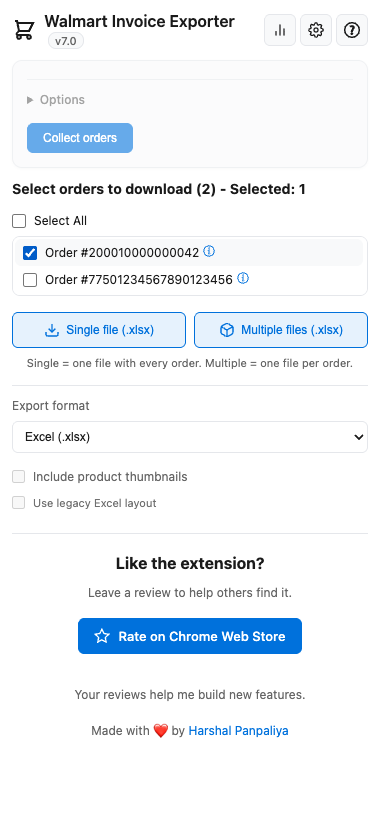
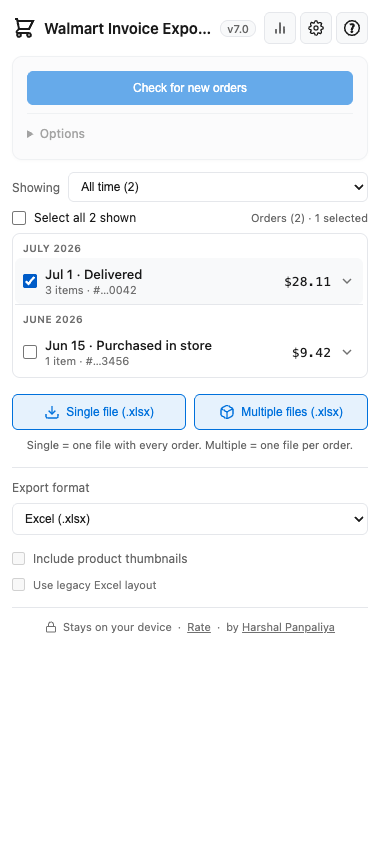
fix: v7.1 visual-review round
- Collect-button label now follows the macro state on every path (panel
  init from the DB showed 'Load my orders' with orders present)
- Version badge sits outside the title's ellipsis so it can't be the
  first thing truncated away; empty badge hides
- Expanded row scrolls into view (its action buttons opened below the
  list box's fold); list box max-height 300->400
- Removed the duplicate collect caption (hero subtext covers it)
- Screenshot driver covers all v7.1 states at 4 widths + an overflow
  probe; README screenshot regenerated from the new list view

diff --git a/tests/e2e/helpers/shots.js b/tests/e2e/helpers/shots.js
@@ -1,7 +1,7 @@
 /**
  * UI screenshot driver (dev tool, not a test): boots the packed extension in
- * the e2e harness, walks the panel through its main states, and saves PNGs
- * at side-panel width. Usage: node tests/e2e/helpers/shots.js <outDir>
+ * the e2e harness, walks the panel through its states, and saves PNGs.
+ * Usage: node tests/e2e/helpers/shots.js <outDir>
  */
 'use strict';
 
@@ -9,8 +9,7 @@ const path = require('node:path');
 const { launch, collectOrders, renderOrderList } = require('./harness');
 
 const OUT = process.argv[2] || '.';
-const WIDTH = 380;
-const HEIGHT = 820;
+const HEIGHT = 860;
 
 async function shot(panel, name) {
   // The harness never sits on a real Walmart tab, so the off-tab banner is
@@ -18,62 +17,82 @@ async function shot(panel, name) {
   await panel.evaluate(() => {
     const banner = document.getElementById('offTabWarning');
     if (banner) banner.remove();
+    const cacheInfo = document.getElementById('cacheInfo');
+    if (cacheInfo) cacheInfo.remove();
   });
-  await panel.waitForTimeout(250);
+  await panel.waitForTimeout(200);
   await panel.screenshot({ path: path.join(OUT, `${name}.png`) });
   console.log(`saved ${name}.png`);
+}
+
+async function setTheme(panel, theme) {
+  await panel.evaluate((t) => {
+    if (t) document.documentElement.setAttribute('data-theme', t);
+    else document.documentElement.removeAttribute('data-theme');
+  }, theme);
 }
 
 (async () => {
   const { panel, close } = await launch();
   try {
-    await panel.setViewportSize({ width: WIDTH, height: HEIGHT });
+    await panel.setViewportSize({ width: 380, height: HEIGHT });
 
-    // Main view, empty state (before any collection)
-    await shot(panel, '01-main-empty-light');
+    // First-run hero (empty DB => first-run macro state)
+    await shot(panel, '01-first-run-light');
+    await setTheme(panel, 'dark');
+    await shot(panel, '02-first-run-dark');
+    await setTheme(panel, null);
 
-    // Collect via the real worker, render the list, select one order
+    // Collect via the real worker, render the receipt list
     const progress = await collectOrders(panel);
     await renderOrderList(panel, progress);
     const firstBox = panel.locator('.order-list input[type="checkbox"]').first();
     await firstBox.check();
-    await shot(panel, '02-main-orders-light');
+    await shot(panel, '03-list-light');
+    await setTheme(panel, 'dark');
+    await shot(panel, '04-list-dark');
 
-    // Dark mode (manual override, same as the Settings toggle)
-    await panel.evaluate(() => {
-      document.documentElement.setAttribute('data-theme', 'dark');
-    });
-    await shot(panel, '03-main-orders-dark');
-    await panel.evaluate(() => {
-      document.documentElement.removeAttribute('data-theme');
-    });
+    // Expand the first row (click the row body, not the checkbox)
+    await panel.locator('.order-list .order-row').first().click();
+    await shot(panel, '05-row-expanded-dark');
+    await setTheme(panel, null);
 
-    // Settings view (light + dark)
-    await panel.evaluate(() => {
-      window.Sidepanel.view.switchView('settings');
-      window.Sidepanel.settings.renderSettings();
+    // Range filter engaged (This year)
+    const hasFilter = await panel.evaluate(() => {
+      const select = document.getElementById('listRangeFilter');
+      if (!select) return false;
+      const option = Array.from(select.options).find((o) => o.value === 'thisYear');
+      if (!option) return false;
+      select.value = 'thisYear';
+      select.dispatchEvent(new Event('change', { bubbles: true }));
+      return true;
     });
-    await shot(panel, '04-settings-light');
-    await panel.evaluate(() => {
-      document.documentElement.setAttribute('data-theme', 'dark');
-    });
-    await shot(panel, '05-settings-dark');
-    await panel.evaluate(() => {
-      document.documentElement.removeAttribute('data-theme');
-    });
+    if (hasFilter) {
+      await panel.waitForTimeout(300);
+      await shot(panel, '06-filter-thisyear-light');
+      await panel.evaluate(() => {
+        const select = document.getElementById('listRangeFilter');
+        select.value = 'all';
+        select.dispatchEvent(new Event('change', { bubbles: true }));
+      });
+    } else {
+      console.warn('listRangeFilter not found — skipping filter shot');
+    }
 
-    // Delete-all confirmation dialog
-    await panel.click('#deleteAllDataButton');
-    await shot(panel, '06-delete-dialog-light');
+    // Width sweep on the loaded list
+    await panel.setViewportSize({ width: 300, height: HEIGHT });
+    await shot(panel, '07-list-narrow-300');
+    await panel.setViewportSize({ width: 460, height: HEIGHT });
+    await shot(panel, '08-list-wide-460');
+    await panel.setViewportSize({ width: 380, height: HEIGHT });
 
-    // Dashboard
-    await panel.evaluate(() => {
-      const dialog = document.querySelector('.dialog-overlay .dialog-cancel');
-      if (dialog) dialog.click();
-      window.Sidepanel.view.switchView('dashboard');
-      window.Sidepanel.dashboard.renderDashboard();
-    });
-    await shot(panel, '07-dashboard-light');
+    // Horizontal-overflow check at the extreme narrow width
+    await panel.setViewportSize({ width: 280, height: HEIGHT });
+    const overflow = await panel.evaluate(
+      () => document.documentElement.scrollWidth - document.documentElement.clientWidth
+    );
+    console.log(`overflow @280px: ${overflow}px ${overflow > 0 ? '*** HORIZONTAL SCROLL ***' : '(none, good)'}`);
+    await shot(panel, '09-list-narrow-280');
   } finally {
     await close();
   }

diff --git a/sidepanel.css b/sidepanel.css
@@ -276,15 +276,27 @@ body {
 }
 
 .header h1 {
-  font-size: var(--font-size-lg);
+  font-size: 15px;
   font-weight: 600;
   color: var(--text);
   flex: 1;
   min-width: 0;
-  /* Title ellipsizes rather than wrapping/overflowing (spec v7.1 §F). */
+  display: flex;
+  align-items: center;
+  gap: var(--space-1);
+  white-space: nowrap;
+}
+
+/* Only the title TEXT ellipsizes (spec v7.1 §F) — the version badge sits
+   outside the truncation so it never silently disappears first. */
+.header-title-text {
+  min-width: 0;
   overflow: hidden;
   text-overflow: ellipsis;
-  white-space: nowrap;
+}
+
+.version-badge:empty {
+  display: none;
 }
 
 .card {
@@ -615,7 +627,7 @@ body {
 
 /* Order list - scrollable area for orders */
 .order-list {
-  max-height: 300px;
+  max-height: 400px;
   overflow-y: auto;
   margin-bottom: var(--space-1);
   padding: 2px 4px 2px 2px;

diff --git a/sidepanel.view.js b/sidepanel.view.js
@@ -223,6 +223,12 @@
     const has = Boolean(hasOrders);
     document.body.classList.toggle("first-run", !has);
     if (state.app) state.app.hasOrders = has;
+    // Keep the collect button's label in sync with the macro state — the
+    // label logic lives in setCollectionButtonsState, but not every path
+    // that flips hasOrders goes through it (e.g. panel init from the DB).
+    if (!state.app || !state.app.collectionInProgress) {
+      setCollectionButtonsState({ running: false });
+    }
   }
 
   function setUIEnabled(enabled) {
@@ -607,6 +613,9 @@
       rowEl.classList.add("expanded");
       listState.openRowEl = rowEl;
       listState.openDetailEl = detail;
+      // The list box is its own scroll area — an expansion near its fold
+      // opens mostly out of view (the action buttons were the casualty).
+      detail.scrollIntoView({ block: "nearest", behavior: "auto" });
     }
   }
 

diff --git a/sidepanel.html b/sidepanel.html
@@ -26,7 +26,7 @@
                 <path
                     d="M3 3h2l.4 2M7 13h10l4-8H5.4M7 13L5.4 5M7 13l-2.293 2.293c-.63.63-.184 1.707.707 1.707H17m0 0a2 2 0 100 4 2 2 0 000-4zm-8 2a2 2 0 11-4 0 2 2 0 014 0z" />
             </svg>
-            <h1>Walmart Invoice Exporter <span id="versionBadge" class="version-badge"></span></h1>
+            <h1><span class="header-title-text">Walmart Invoice Exporter</span> <span id="versionBadge" class="version-badge"></span></h1>
             <!-- Compact icon buttons (spec §5.4/P4) — fixes the old
                  text-button header crowding at narrow widths. -->
             <div class="header-actions" id="headerActions">
@@ -100,7 +100,6 @@
                     Stop Collection
                 </button>
             </div>
-            <p class="collect-caption">Scans your Walmart order history so you can pick what to export.</p>
             <details class="options-group" id="collectionOptionsGroup">
                 <summary>Options</summary>
                 <div class="input-group" id="pageLimitGroup">